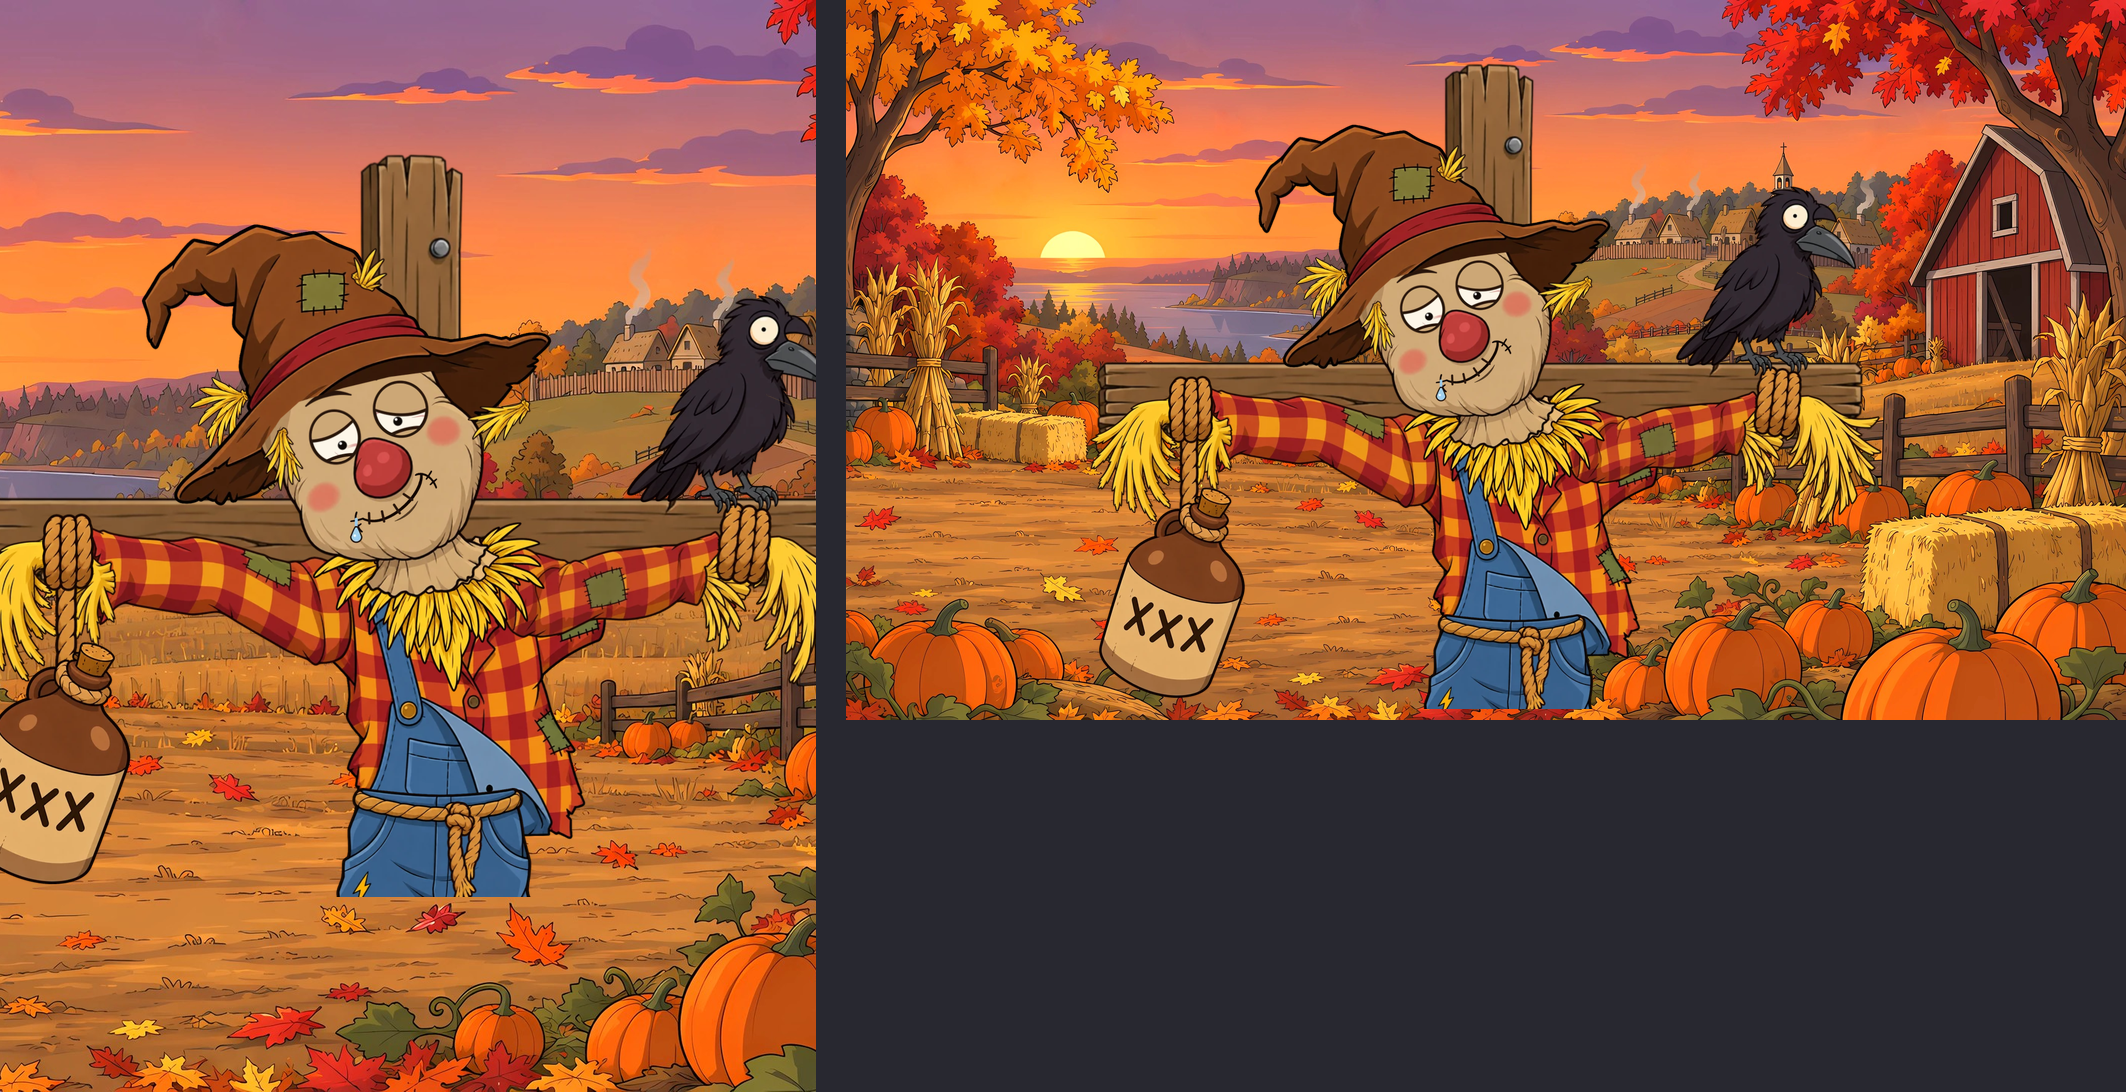
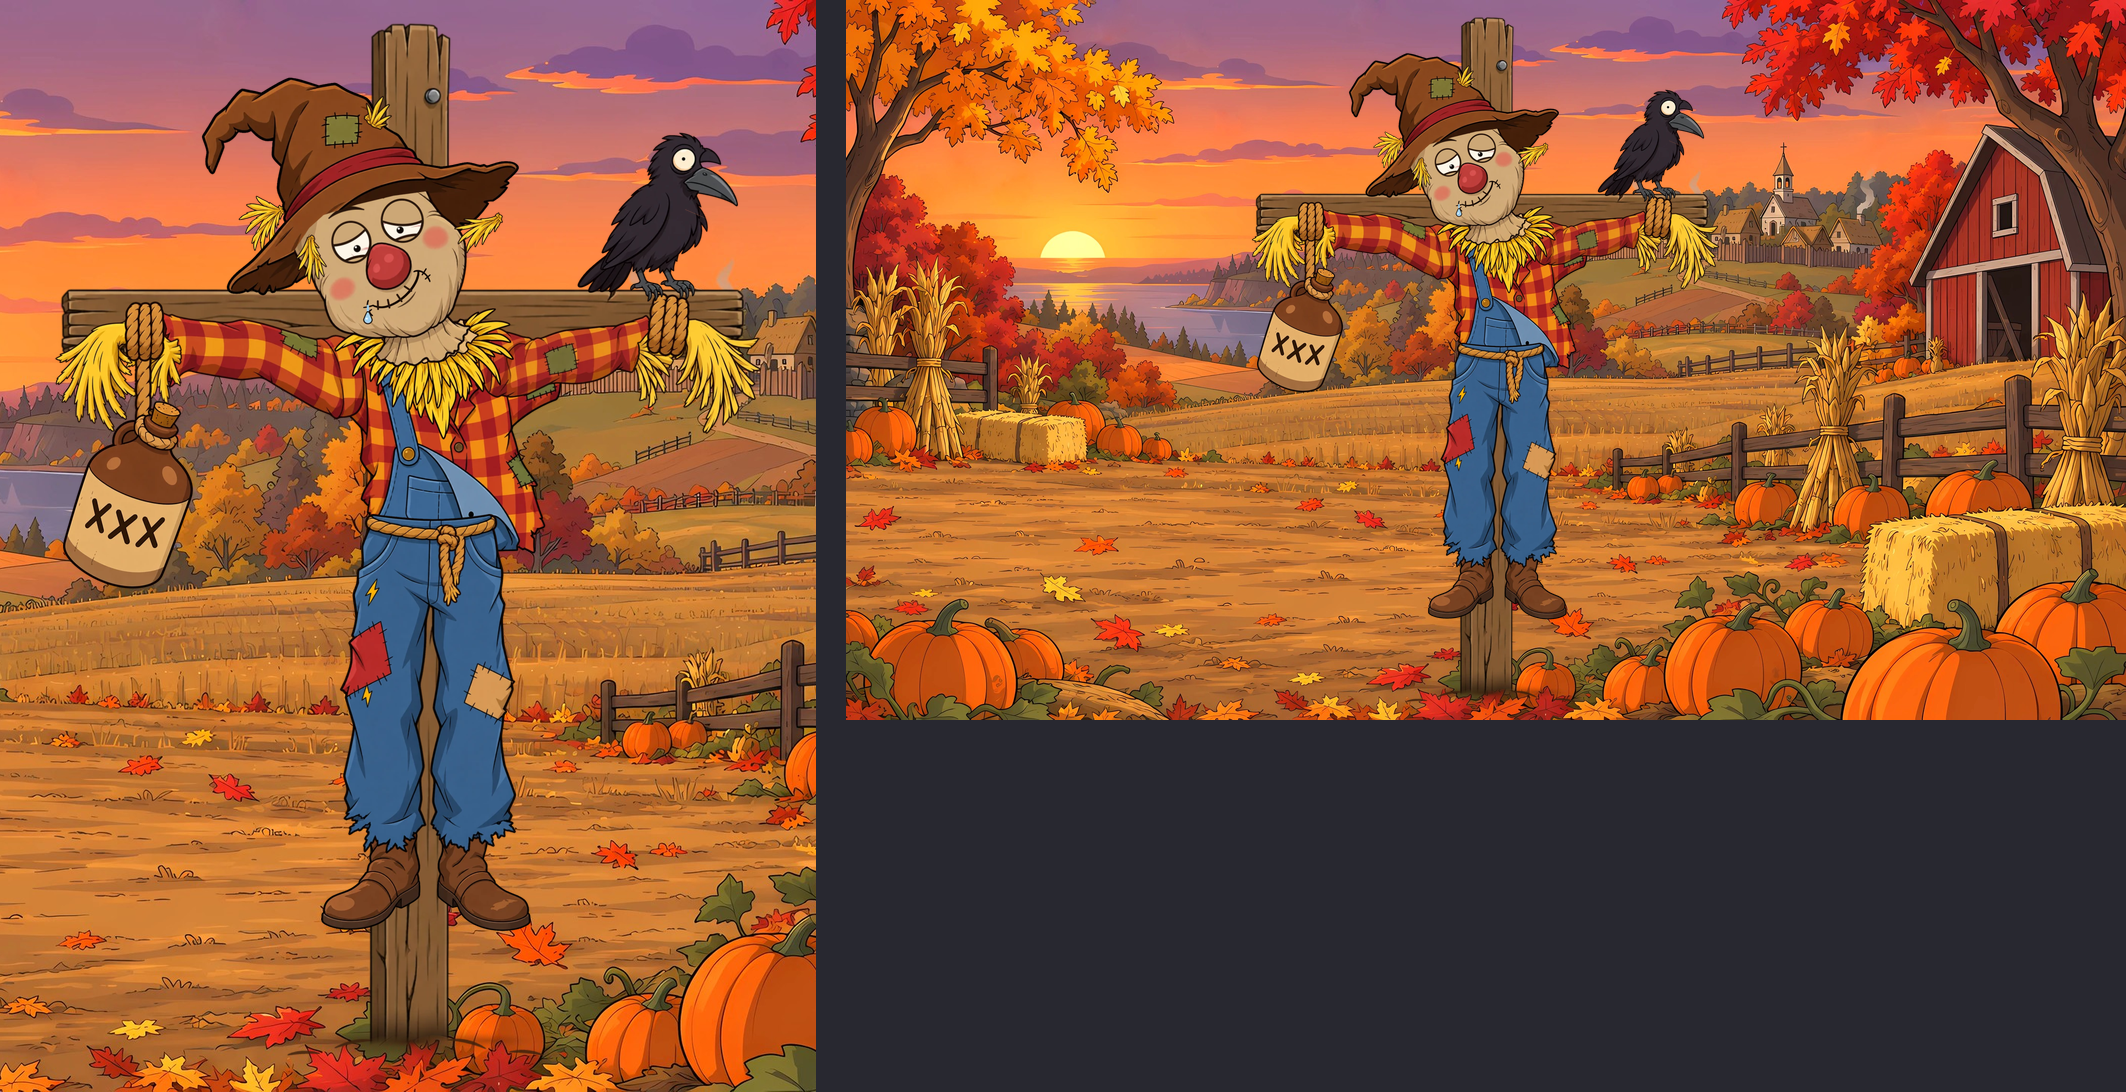
Juice splashes: smaller, fainter, shorter-lived, on the board only; twelve more splat shapes (thrown, starburst, spatter, drips)

Changed region(s): [[0.0, 0.0, 0.4036, 0.9652], [0.4967, 0.0, 0.9003, 0.6538]]

diff --git a/frontend/index.html b/frontend/index.html
@@ -4767,7 +4767,7 @@ function prewarmBursts() {
     if (!n) return;
     for (const [kind, col] of BURST_MAT[n]) matSprite(kind, col);
     const dj = DEBRIS[n] && DEBRIS[n].juice;
-    if (dj && debImg.complete && debImg.naturalWidth) { matSprite("drop", dj); for (let i = 0; i < 6; i++) splatSprite(i, dj); }
+    if (dj && debImg.complete && debImg.naturalWidth) { matSprite("drop", dj); for (let i = 0; i < 4; i++) splatSprite("splat", dj, i); }
     const img = FLAT[n];
     if (img && img.complete && img.naturalWidth) { try { burstKit(n, img); } catch (e) { /* cut on first use instead */ } }
     (window.requestIdleCallback || (f => setTimeout(f, 60)))(next);
@@ -5643,7 +5643,7 @@ function burstStep() {
 // atlas (pack_debris.py -> assets/fx/debris.webp, DEBRIS_AT = its rects [x, y, w, h, size]); the splats are white
 // and take the juice's colour here. Two canvases: the stains under the icons, cut off inside the frame's opening;
 // the chunks and drops over everything, reaching FLY_PAD px past the board.
-const DEBRIS_AT = {"splat":[[0,0,126,191,1.09],[128,0,148,187,1.06],[278,0,132,180,1.02],[412,0,154,172,0.98],[568,0,147,171,0.97],[717,0,127,170,0.97]],"turkey":[[846,0,131,140,1.35],[99,335,117,118,1.14],[863,455,107,106,1.03],[97,569,87,104,1.0],[459,569,87,103,0.99],[548,569,77,103,0.99],[303,957,68,68,0.66]],"horn":[[0,193,106,140,1.35],[465,193,87,128,1.23],[554,193,81,126,1.21],[524,455,78,108,1.04],[485,676,78,95,0.91],[364,776,100,93,0.96],[182,872,68,80,0.77],[433,872,87,79,0.84]],"apple":[[108,193,113,131,1.26],[218,335,81,116,1.12],[433,455,89,108,1.04],[695,455,89,107,1.02],[698,569,76,101,0.98],[882,569,69,98,0.94],[199,676,82,95,0.92],[707,872,70,74,0.71]],"hat":[[223,193,79,131,1.26],[304,193,75,130,1.25],[381,193,82,130,1.25],[779,193,96,121,1.16],[0,455,103,112,1.08],[105,676,92,96,0.92],[108,776,90,94,0.9],[860,776,83,87,0.84],[110,872,70,82,0.79],[899,872,73,72,0.7]],"corn":[[637,193,140,125,1.35],[811,335,135,112,1.3],[0,776,106,94,1.02],[466,776,102,91,0.98],[762,776,96,87,0.92],[805,957,90,61,0.86],[897,957,78,61,0.75],[107,1030,140,55,1.35]],"leaf":[[877,193,110,119,1.14],[338,455,93,109,1.05],[786,455,75,107,1.03],[186,569,107,104,1.03],[295,569,80,104,1.0],[776,569,104,100,1.0],[565,676,95,95,0.92],[200,776,64,94,0.91],[252,872,69,80,0.77],[744,957,59,62,0.6]],"grapes":[[0,335,97,118,1.13],[301,335,95,115,1.1],[398,335,93,114,1.09],[596,335,103,113,1.09],[283,676,93,95,0.91],[662,676,94,94,0.91],[758,676,94,94,0.91],[854,676,91,94,0.9]],"pumpkin":[[493,335,101,114,1.1],[377,569,80,103,0.99],[0,676,103,98,0.99],[378,676,105,95,1.01],[570,776,92,90,0.88],[664,776,96,89,0.93],[0,872,108,83,1.04],[323,872,108,79,1.04]],"jug":[[701,335,108,113,1.08],[105,455,128,112,1.23],[235,455,101,112,1.08],[604,455,89,108,1.04],[0,569,95,105,1.01],[627,569,69,103,0.99],[266,776,96,94,0.92],[522,872,80,79,0.77],[604,872,101,77,0.97],[104,957,84,71,0.81]],"pie":[[779,872,118,73,1.14],[0,957,102,71,0.98],[190,957,111,68,1.07],[373,957,77,67,0.74],[452,957,76,67,0.73],[530,957,107,66,1.02],[639,957,103,62,0.99],[0,1030,105,60,1.01]]};
+const DEBRIS_AT = {"splatdrip":[[0,0,98,176,1.29],[100,0,86,161,1.18]],"splat":[[188,0,98,148,1.09],[288,0,114,145,1.06],[404,0,108,141,1.04],[755,0,102,139,1.02],[859,0,119,133,0.98],[0,178,113,132,0.97],[115,178,98,132,0.97],[411,178,114,131,0.96],[98,312,92,121,0.89],[585,435,91,112,0.82]],"turkey":[[514,0,131,140,1.35],[403,312,117,118,1.14],[259,550,107,106,1.03],[465,550,87,104,1.0],[827,550,87,103,0.99],[916,550,77,103,0.99],[113,1028,68,68,0.66]],"horn":[[647,0,106,140,1.35],[688,178,87,128,1.23],[777,178,81,126,1.21],[864,435,78,108,1.04],[811,660,78,95,0.91],[649,765,100,93,0.96],[463,861,68,80,0.77],[714,861,87,79,0.84]],"apple":[[215,178,113,131,1.26],[522,312,81,116,1.12],[773,435,89,108,1.04],[91,550,89,107,1.02],[71,660,76,101,0.98],[255,660,69,98,0.94],[525,660,82,95,0.92],[0,952,70,74,0.71]],"hat":[[330,178,79,131,1.26],[527,178,75,130,1.25],[604,178,82,130,1.25],[0,312,96,121,1.16],[247,435,103,112,1.08],[431,660,92,96,0.92],[393,765,90,94,0.9],[196,861,83,87,0.84],[391,861,70,82,0.79],[499,952,73,72,0.7]],"corn":[[860,178,140,125,1.35],[110,435,135,112,1.3],[285,765,106,94,1.02],[751,765,102,91,0.98],[98,861,96,87,0.92],[615,1028,90,61,0.86],[707,1028,78,61,0.75],[261,1098,140,55,1.35]],"leaf":[[192,312,110,119,1.14],[678,435,93,109,1.05],[182,550,75,107,1.03],[554,550,107,104,1.03],[663,550,80,104,1.0],[149,660,104,100,1.0],[891,660,95,95,0.92],[485,765,64,94,0.91],[533,861,69,80,0.77],[554,1028,59,62,0.6]],"grapes":[[304,312,97,118,1.13],[605,312,95,115,1.1],[702,312,93,114,1.09],[900,312,103,113,1.09],[609,660,93,95,0.91],[0,765,94,94,0.91],[96,765,94,94,0.91],[192,765,91,94,0.9]],"pumpkin":[[797,312,101,114,1.1],[745,550,80,103,0.99],[326,660,103,98,0.99],[704,660,105,95,1.01],[855,765,92,90,0.88],[0,861,96,89,0.93],[281,861,108,83,1.04],[604,861,108,79,1.04]],"jug":[[0,435,108,113,1.08],[352,435,128,112,1.23],[482,435,101,112,1.08],[0,550,89,108,1.04],[368,550,95,105,1.01],[0,660,69,103,0.99],[551,765,96,94,0.92],[803,861,80,79,0.77],[885,861,101,77,0.97],[678,952,84,71,0.81]],"splatdir":[[72,952,157,74,1.04],[231,952,146,74,0.98],[764,952,163,71,1.09],[787,1028,131,61,0.87],[0,1098,152,61,1.01],[403,1098,148,41,0.99]],"pie":[[379,952,118,73,1.14],[574,952,102,71,0.98],[0,1028,111,68,1.07],[183,1028,77,67,0.74],[262,1028,76,67,0.73],[340,1028,107,66,1.02],[449,1028,103,62,0.99],[154,1098,105,60,1.01]]};
 // icon -> its sheet, how many pieces fly, its juice (none: dry), how many big stains, do the pieces flutter
 const DEBRIS = {
   L3: { sheet: "apple", n: 6, juice: "#a6d63f", stains: 2 },
@@ -5663,10 +5663,14 @@ debImg.src = "assets/fx/debris.webp";
 let stainCv = null, stainCtx = null, flyCv = null, flyCtx = null, debDpr = 1, debRaf = 0, debLast = 0;
 let stains = [], flyers = [], juice = [], debBoard = [0, 0];
 const splatSprites = {};
-function splatSprite(i, col) {   // a white splat in the juice's colour: its wet shading kept, made once
-  const key = i + col;
+// a white splat in the juice's colour: its wet shading kept, made once. kind: "splat" round marks, any way up;
+// "splatdir" thrown ones, drawn pointing right (turned to the way they were thrown); "splatdrip" ones that run down
+function splatSprite(kind, col, i = Math.floor(Math.random() * 99)) {
+  const list = DEBRIS_AT[kind] || DEBRIS_AT.splat;
+  i %= list.length;
+  const key = kind + i + col;
   if (splatSprites[key]) return splatSprites[key];
-  const [x, y, w, h] = DEBRIS_AT.splat[i % DEBRIS_AT.splat.length];
+  const [x, y, w, h] = list[i];
   const c = document.createElement("canvas"); c.width = w; c.height = h;
   const g = c.getContext("2d");
   g.drawImage(debImg, x, y, w, h, 0, 0, w, h);
@@ -5704,8 +5708,10 @@ function debrisBlow(b, crowd, mob) {
     const dir = R() * 6.3;
     for (let i = 0, n = mob ? 1 : crowd ? Math.min(2, d.stains) : d.stains + 1; i < n; i++) {
       const far = i ? W * (.35 + R() * .45) : W * R() * .12, a = dir + i * 2.2 + (R() - .5);
-      stains.push({ spr: splatSprite(Math.floor(R() * 6), d.juice), x: x0 + Math.cos(a) * far, y: y0 + Math.sin(a) * far,
-        s: W * (i ? .55 + R() * .4 : 1.25 + R() * .35), rot: R() * 6.3, born: now + i * 45 * t, life: (2300 + R() * 900) * t, run: W * (.03 + R() * .05) });
+      // the big one a round mark (now and then one that runs), the others thrown marks pointing the way they went
+      const drip = !i && R() < .22, kind = i ? "splatdir" : drip ? "splatdrip" : "splat";
+      stains.push({ spr: splatSprite(kind, d.juice), x: x0 + Math.cos(a) * far, y: y0 + Math.sin(a) * far,
+        s: W * (i ? .4 + R() * .25 : .78 + R() * .2), rot: i ? a : drip ? (R() - .5) * .2 : R() * 6.3, born: now + i * 45 * t, life: (1500 + R() * 600) * t, run: W * (.03 + R() * .05) });   // smaller, fainter, sooner gone (owner, 2026-11-15)
     }
     // drops of juice thrown out, each leaving a small splat where it lands - on the wall, or out past the frame
     const spr = matSprite("drop", d.juice);
@@ -5740,17 +5746,19 @@ function debrisStep() {
     if (age < 0) continue;
     const p = age / s.life, k = Math.min(1, age / 110), e = 1 - (1 - k) * (1 - k) * (1 - k), sc = s.s * (.45 + .55 * e);
     const ctx = s.out ? f : g, ox = s.out ? FLY_PAD : 0;
-    ctx.globalAlpha = (s.out ? .8 : .88) * (p < .5 ? 1 : 1 - (p - .5) / .5);
+    ctx.globalAlpha = (s.out ? .34 : .42) * (p < .4 ? 1 : 1 - (p - .4) / .6);
     const co = Math.cos(s.rot) * D, si = Math.sin(s.rot) * D;
     ctx.setTransform(co, si, -si, co, (s.x + ox) * D, (s.y + ox + s.run * p) * D);
-    ctx.drawImage(s.spr, -sc / 2, -sc / 2, sc, sc * (1 + .1 * p));
+    const sh = sc * s.spr.height / s.spr.width;   // its own shape: the thrown ones are long
+    ctx.drawImage(s.spr, -sc / 2, -sh / 2, sc, sh * (1 + .1 * p));
   }
   // the drops: point-first along their flight; where one ends it splats
   juice = juice.filter(j => {
-    if (now - j.born < j.life) return true;
     const inside = j.x > POP_EDGE + 4 && j.y > POP_EDGE + 4 && j.x < bw - POP_EDGE - 4 && j.y < bh - POP_EDGE - 4;
-    stains.push({ spr: splatSprite(Math.floor(Math.random() * 6), j.col), x: j.x, y: j.y, s: j.W * (.22 + Math.random() * .3), rot: Math.random() * 6.3,
-      born: now, life: (inside ? 1500 + Math.random() * 900 : 800 + Math.random() * 500) * j.t, run: j.W * .03, out: !inside });
+    if (now - j.born < j.life && inside) return true;   // (a drop is gone the moment it leaves the board)
+    // on the board only (owner, 2026-11-15): a drop that ends past the frame leaves nothing
+    if (inside) stains.push({ spr: splatSprite("splatdir", j.col), x: j.x, y: j.y, s: j.W * (.18 + Math.random() * .2), rot: Math.atan2(j.vy, j.vx),
+      born: now, life: (1000 + Math.random() * 500) * j.t, run: j.W * .03 });
     return false;
   });
   f.globalAlpha = 1;

diff --git a/tools/fall/gen_debris.py b/tools/fall/gen_debris.py
@@ -40,6 +40,20 @@ SHEETS = {
             "translucent with bright white glints, two cream stoneware shards (one with a stitched black X on it), "
             "and the cork."),
     "splat": (None, 6, None),
+    # more of them, and thrown ones (owner, 2026-11-15: "more different angles and splats")
+    "splat_b": (None, 6, "Game effect sprite sheet. Fully transparent background. 6 different juice splatter marks as left on a "
+                "wall in a fruit-slicing arcade game, laid out in a 3 by 2 grid with wide gaps, none touching. Each one was "
+                "THROWN SIDEWAYS and hit the wall at a shallow angle travelling from left to right: a fat rounded blob at "
+                "the left that smears out into a long tapering streak to the right, with elongated droplets flying off "
+                "ahead of it to the right. All six point exactly to the right; each a different length and shape. Flat "
+                "cartoon look: pure white fill, a few very light grey patches for wet shading, NO outline, no colour, no "
+                "text, no shadows."),
+    "splat_c": (None, 6, "Game effect sprite sheet. Fully transparent background. 6 different juice marks as left on a wall "
+                "in a fruit-slicing arcade game, laid out in a 3 by 2 grid with wide gaps, none touching: two small "
+                "starburst splats with many thin radiating spikes, two loose clusters of small round spatter dots of "
+                "mixed sizes, and two splats with three or four long drips running straight down from them. Flat cartoon "
+                "look: pure white fill, a few very light grey patches for wet shading, NO outline, no colour, no text, "
+                "no shadows."),
 }
 SPLAT = ("Game effect sprite sheet. Fully transparent background. 6 different juice splatter marks as left on a wall in "
          "a fruit-slicing arcade game, laid out in a 3 by 2 grid with wide gaps, none touching. Each is one big wet "
@@ -50,7 +64,7 @@ SPLAT = ("Game effect sprite sheet. Fully transparent background. 6 different ju
 def one(name):
     ref, n, what = SHEETS[name]
     out = os.path.join(OUT, name + ".png")
-    prompt = SPLAT if what is None else STYLE.format(n=n) + what
+    prompt = (what or SPLAT) if ref is None else STYLE.format(n=n) + what
     refs = [os.path.join(ROOT, "frontend", "assets", "flat", ref + ".webp")] if ref else []
     try:
         _, cost = orimg.generate(out, prompt, "1:1", True, refs)

diff --git a/tools/fall/pack_debris.py b/tools/fall/pack_debris.py
@@ -9,9 +9,10 @@ from scipy import ndimage
 
 ROOT = os.path.dirname(os.path.dirname(os.path.dirname(os.path.abspath(__file__))))
 SRC = os.path.join(ROOT, "art", "fall-src", "debris")
-SHEETS = ["apple", "grapes", "pumpkin", "pie", "turkey", "horn", "corn", "hat", "leaf", "jug", "splat"]
-BOX = {"splat": 176}          # the longest side a piece is shipped at (drawn ~40 css px, at 2x)
-JOIN = {"splat": 16}          # px a piece's loose crumbs and droplets may sit from it and still be part of it
+SHEETS = ["apple", "grapes", "pumpkin", "pie", "turkey", "horn", "corn", "hat", "leaf", "jug", "splat", "splat_c", "splat_b"]
+INTO = {"splat_c": "splat", "splat_b": "splatdir"}   # table key a sheet's pieces go under: splat = round marks, splatdir = thrown ones, pointing right
+BOX = {"splat": 136, "splat_c": 136, "splat_b": 150}          # the longest side a piece is shipped at (drawn ~40 css px, at 2x)
+JOIN = {"splat": 16, "splat_c": 22, "splat_b": 22}          # px a piece's loose crumbs and droplets may sit from it and still be part of it
 W = 1024
 
 
@@ -40,7 +41,8 @@ def main():
             rel = min(1.35, max(.6, max(p.size) / mid))
             k = box * rel / max(p.size)
             q = p.resize((max(1, round(p.width * k)), max(1, round(p.height * k))), Image.LANCZOS)
-            placed.append((name, q, round(rel, 2)))
+            key = "splatdrip" if name == "splat_c" and p.height > 1.4 * p.width else INTO.get(name, name)   # the ones that run down stay upright
+            placed.append((key, q, round(rel, 2)))
         print(name, len(ps))
     x = y = row = 0
     spots = []
